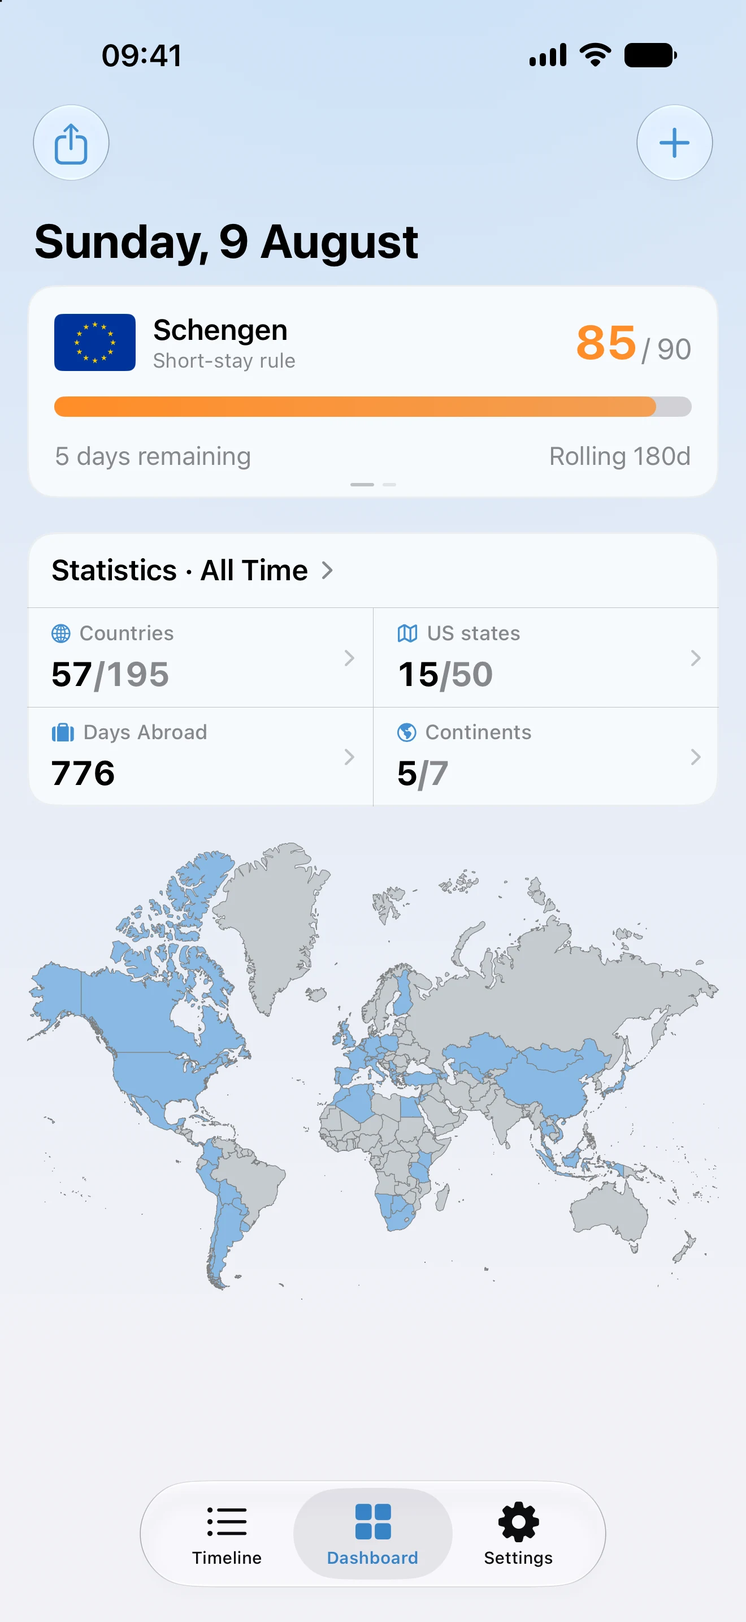
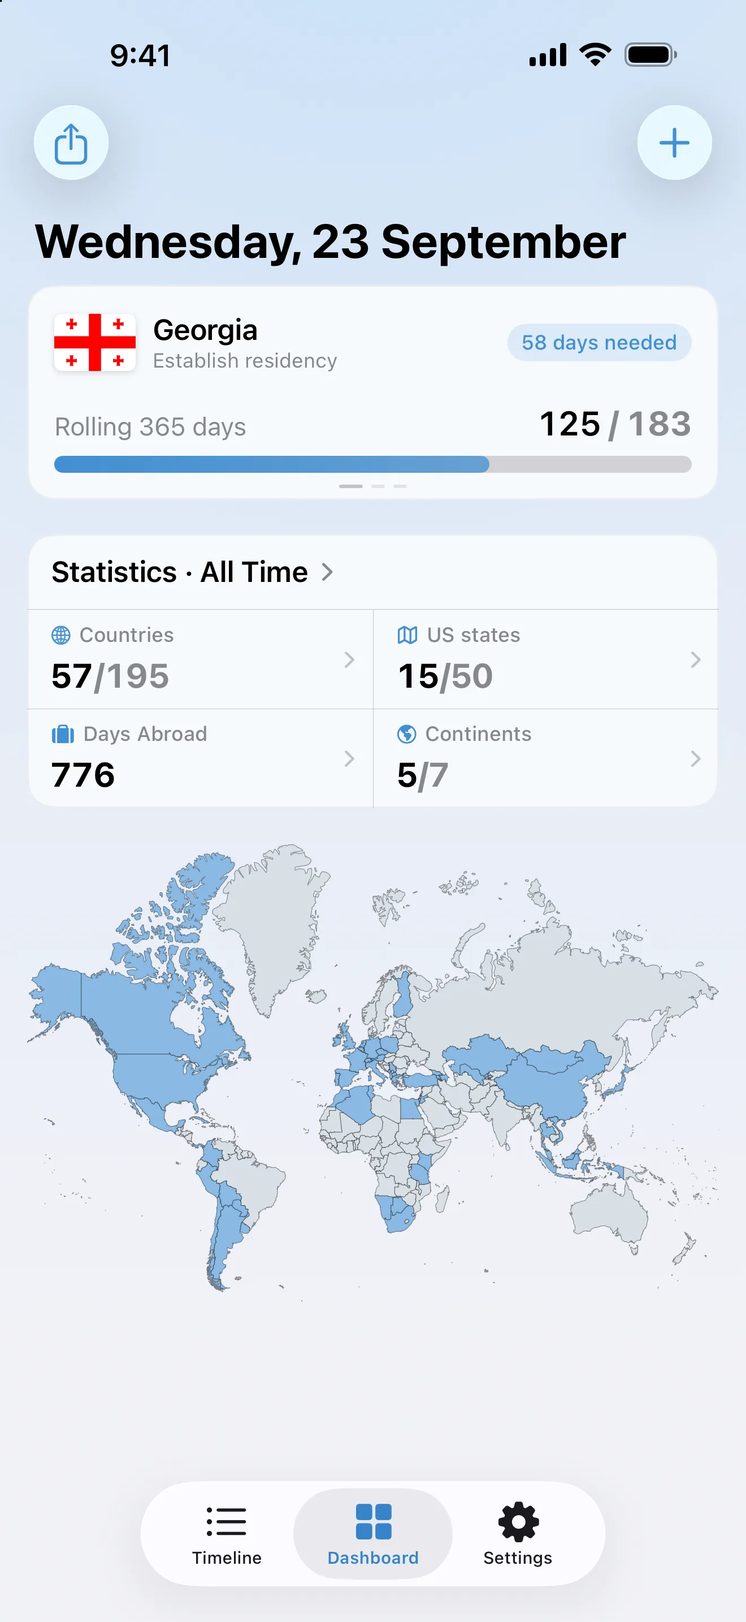
Replace placeholder screenshots with fresh simulator captures
Hero list, alerts list, tracker cards, citizenship card, Photo Import review,
forecast and presets, plus the hero dashboard and tracker detail, all captured
2026-09-27 from the website-dashboard-alerts harness build with
--screenshot-date 2026-09-23. Manual-source captures are archived under
_manual-sources and registered in screenshots.json with their crops.

diff --git a/index.html b/index.html
@@ -213,15 +213,15 @@
       <div class="hx-phones is-pre" data-hx-phones>
         <div class="hx-device hx-phone-back">
           <div class="hx-screen">
-            <img class="shot-dark" src="assets/home/home-hero-tracker-detail.webp?v=20260925a" alt="The Schengen tracker in AtlasDays: 85 of 90 days used, 5 remaining, with the trips behind the count" width="1320" height="2868" />
-            <img class="shot-light" src="assets/home/home-hero-tracker-detail-light.webp?v=20260925a" alt="The Schengen tracker in AtlasDays: 85 of 90 days used, 5 remaining, with the trips behind the count" width="1320" height="2868" />
+            <img class="shot-dark" src="assets/home/home-hero-tracker-detail.webp?v=20260927c" alt="The Schengen tracker in AtlasDays: 85 of 90 days used, 5 remaining, with the trips behind the count" width="1320" height="2868" />
+            <img class="shot-light" src="assets/home/home-hero-tracker-detail-light.webp?v=20260927c" alt="The Schengen tracker in AtlasDays: 85 of 90 days used, 5 remaining, with the trips behind the count" width="1320" height="2868" />
           </div>
           <img class="hx-frame" src="assets/home/iphone-frame-blue.webp?v=20260809j" alt="" width="980" height="2000" />
         </div>
         <div class="hx-device hx-phone-front">
           <div class="hx-screen">
-            <img class="shot-dark" src="assets/home/v2/hero-list.webp?v=20260925a" alt="The AtlasDays dashboard on Wednesday, 23 September: a Georgia residency tracker, the Schengen tracker at 85 of 90 days, a United Kingdom travel goal, and all-time statistics" width="1320" height="2868" fetchpriority="high" />
-            <img class="shot-light" src="assets/home/v2/hero-list-light.webp?v=20260925a" alt="The AtlasDays dashboard on Wednesday, 23 September: a Georgia residency tracker, the Schengen tracker at 85 of 90 days, a United Kingdom travel goal, and all-time statistics" width="1320" height="2868" />
+            <img class="shot-dark" src="assets/home/v2/hero-list.webp?v=20260927c" alt="The AtlasDays dashboard on Wednesday, 23 September: a Georgia residency tracker, the Schengen tracker at 85 of 90 days, a United Kingdom travel goal, and all-time statistics" width="1320" height="2868" fetchpriority="high" />
+            <img class="shot-light" src="assets/home/v2/hero-list-light.webp?v=20260927c" alt="The AtlasDays dashboard on Wednesday, 23 September: a Georgia residency tracker, the Schengen tracker at 85 of 90 days, a United Kingdom travel goal, and all-time statistics" width="1320" height="2868" />
           </div>
           <img class="hx-frame" src="assets/home/iphone-frame-blue.webp?v=20260809j" alt="" width="980" height="2000" />
         </div>
@@ -236,32 +236,32 @@
             <span class="hx-case-label">Visa limits</span>
             <span class="hx-case-text">Schengen 90/180, per-stay limits, and rolling windows.</span>
             <span class="hx-case-shot">
-              <img class="shot-dark" src="assets/home/v2/case-visa.webp?v=20260925a" alt="An AtlasDays Schengen tracker card: days used and days remaining in the rolling 180-day window" width="1224" height="380" loading="lazy" />
-              <img class="shot-light" src="assets/home/v2/case-visa-light.webp?v=20260925a" alt="An AtlasDays Schengen tracker card: days used and days remaining in the rolling 180-day window" width="1224" height="380" loading="lazy" />
+              <img class="shot-dark" src="assets/home/v2/case-visa.webp?v=20260927c" alt="An AtlasDays Schengen tracker card: days used and days remaining in the rolling 180-day window" width="1224" height="380" loading="lazy" />
+              <img class="shot-light" src="assets/home/v2/case-visa-light.webp?v=20260927c" alt="An AtlasDays Schengen tracker card: days used and days remaining in the rolling 180-day window" width="1224" height="380" loading="lazy" />
             </span>
           </a>
           <a class="hx-case" href="/residency-thresholds">
             <span class="hx-case-label">Tax residency</span>
             <span class="hx-case-text">183-day tests, calendar years, and fiscal years.</span>
             <span class="hx-case-shot">
-              <img class="shot-dark" src="assets/home/v2/case-residency.webp?v=20260925a" alt="An AtlasDays residency tracker card counting days toward a 183-day threshold" width="1224" height="380" loading="lazy" />
-              <img class="shot-light" src="assets/home/v2/case-residency-light.webp?v=20260925a" alt="An AtlasDays residency tracker card counting days toward a 183-day threshold" width="1224" height="380" loading="lazy" />
+              <img class="shot-dark" src="assets/home/v2/case-residency.webp?v=20260927c" alt="An AtlasDays residency tracker card counting days toward a 183-day threshold" width="1224" height="380" loading="lazy" />
+              <img class="shot-light" src="assets/home/v2/case-residency-light.webp?v=20260927c" alt="An AtlasDays residency tracker card counting days toward a 183-day threshold" width="1224" height="380" loading="lazy" />
             </span>
           </a>
           <div class="hx-case" data-hx-pending-page="/citizenship">
             <span class="hx-case-label">Citizenship</span>
             <span class="hx-case-text">Presence and absence limits for citizenship and permanent residence.</span>
             <span class="hx-case-shot">
-              <img class="shot-dark" src="assets/home/v2/case-citizenship.webp?v=20260925a" alt="An AtlasDays citizenship tracker card counting days against a naturalisation limit" width="1224" height="557" loading="lazy" />
-              <img class="shot-light" src="assets/home/v2/case-citizenship-light.webp?v=20260925a" alt="An AtlasDays citizenship tracker card counting days against a naturalisation limit" width="1224" height="557" loading="lazy" />
+              <img class="shot-dark" src="assets/home/v2/case-citizenship.webp?v=20260927c" alt="An AtlasDays citizenship tracker card counting days against a naturalisation limit" width="1224" height="557" loading="lazy" />
+              <img class="shot-light" src="assets/home/v2/case-citizenship-light.webp?v=20260927c" alt="An AtlasDays citizenship tracker card counting days against a naturalisation limit" width="1224" height="557" loading="lazy" />
             </span>
           </div>
           <a class="hx-case" href="/travel-history">
             <span class="hx-case-label">Travel history</span>
             <span class="hx-case-text">Exact dates where they matter, year-only for older trips.</span>
             <span class="hx-case-shot">
-              <img class="shot-dark" src="assets/home/v2/case-history.webp?v=20260925a" alt="AtlasDays all-time statistics: countries visited, US states, days abroad, and continents" width="1224" height="485" loading="lazy" />
-              <img class="shot-light" src="assets/home/v2/case-history-light.webp?v=20260925a" alt="AtlasDays all-time statistics: countries visited, US states, days abroad, and continents" width="1224" height="485" loading="lazy" />
+              <img class="shot-dark" src="assets/home/v2/case-history.webp?v=20260927c" alt="AtlasDays all-time statistics: countries visited, US states, days abroad, and continents" width="1224" height="485" loading="lazy" />
+              <img class="shot-light" src="assets/home/v2/case-history-light.webp?v=20260927c" alt="AtlasDays all-time statistics: countries visited, US states, days abroad, and continents" width="1224" height="485" loading="lazy" />
             </span>
           </a>
         </div>
@@ -276,12 +276,12 @@
           <div class="hx-story-stage">
             <div class="hx-device hx-story-device">
               <div class="hx-screen">
-                <img class="shot-dark is-shown" data-hx-step-shot="0" src="assets/home/v2/step-photo-import.webp?v=20260925a" alt="Photo Import review: trips found in the photo library, ready to check before saving" width="1320" height="2868" loading="lazy" />
-                <img class="shot-light is-shown" data-hx-step-shot="0" src="assets/home/v2/step-photo-import-light.webp?v=20260925a" alt="Photo Import review: trips found in the photo library, ready to check before saving" width="1320" height="2868" loading="lazy" />
+                <img class="shot-dark is-shown" data-hx-step-shot="0" src="assets/home/v2/step-photo-import.webp?v=20260927c" alt="Photo Import review: trips found in the photo library, ready to check before saving" width="1320" height="2868" loading="lazy" />
+                <img class="shot-light is-shown" data-hx-step-shot="0" src="assets/home/v2/step-photo-import-light.webp?v=20260927c" alt="Photo Import review: trips found in the photo library, ready to check before saving" width="1320" height="2868" loading="lazy" />
                 <img class="shot-dark" data-hx-step-shot="1" src="assets/home/home-proof-presets.webp?v=20260818a" alt="The Add a Tracker screen with ready-made visa, residence, and US state rules" width="1320" height="2868" loading="lazy" />
                 <img class="shot-light" data-hx-step-shot="1" src="assets/home/home-proof-presets-light.webp?v=20260818a" alt="The Add a Tracker screen with ready-made visa, residence, and US state rules" width="1320" height="2868" loading="lazy" />
-                <img class="shot-dark" data-hx-step-shot="2" src="assets/home/v2/step-alerts-list.webp?v=20260925b" alt="The AtlasDays dashboard with the Schengen and Japan visitor trackers both red at 90 of 90 days, marked At limit" width="1320" height="2868" loading="lazy" />
-                <img class="shot-light" data-hx-step-shot="2" src="assets/home/v2/step-alerts-list-light.webp?v=20260925b" alt="The AtlasDays dashboard with the Schengen and Japan visitor trackers both red at 90 of 90 days, marked At limit" width="1320" height="2868" loading="lazy" />
+                <img class="shot-dark" data-hx-step-shot="2" src="assets/home/v2/step-alerts-list.webp?v=20260927c" alt="The AtlasDays dashboard with the Schengen and Japan visitor trackers both red at 90 of 90 days, marked At limit" width="1320" height="2868" loading="lazy" />
+                <img class="shot-light" data-hx-step-shot="2" src="assets/home/v2/step-alerts-list-light.webp?v=20260927c" alt="The AtlasDays dashboard with the Schengen and Japan visitor trackers both red at 90 of 90 days, marked At limit" width="1320" height="2868" loading="lazy" />
               </div>
               <img class="hx-frame" src="assets/home/iphone-frame-blue.webp?v=20260809j" alt="" width="980" height="2000" loading="lazy" />
             </div>

diff --git a/_site-src/content/pages/home.html b/_site-src/content/pages/home.html
@@ -16,15 +16,15 @@
       <div class="hx-phones is-pre" data-hx-phones>
         <div class="hx-device hx-phone-back">
           <div class="hx-screen">
-            <img class="shot-dark" src="assets/home/home-hero-tracker-detail.webp?v=20260925a" alt="The Schengen tracker in AtlasDays: 85 of 90 days used, 5 remaining, with the trips behind the count" width="1320" height="2868" />
-            <img class="shot-light" src="assets/home/home-hero-tracker-detail-light.webp?v=20260925a" alt="The Schengen tracker in AtlasDays: 85 of 90 days used, 5 remaining, with the trips behind the count" width="1320" height="2868" />
+            <img class="shot-dark" src="assets/home/home-hero-tracker-detail.webp?v=20260927c" alt="The Schengen tracker in AtlasDays: 85 of 90 days used, 5 remaining, with the trips behind the count" width="1320" height="2868" />
+            <img class="shot-light" src="assets/home/home-hero-tracker-detail-light.webp?v=20260927c" alt="The Schengen tracker in AtlasDays: 85 of 90 days used, 5 remaining, with the trips behind the count" width="1320" height="2868" />
           </div>
           <img class="hx-frame" src="assets/home/iphone-frame-blue.webp?v=20260809j" alt="" width="980" height="2000" />
         </div>
         <div class="hx-device hx-phone-front">
           <div class="hx-screen">
-            <img class="shot-dark" src="assets/home/v2/hero-list.webp?v=20260925a" alt="The AtlasDays dashboard on Wednesday, 23 September: a Georgia residency tracker, the Schengen tracker at 85 of 90 days, a United Kingdom travel goal, and all-time statistics" width="1320" height="2868" fetchpriority="high" />
-            <img class="shot-light" src="assets/home/v2/hero-list-light.webp?v=20260925a" alt="The AtlasDays dashboard on Wednesday, 23 September: a Georgia residency tracker, the Schengen tracker at 85 of 90 days, a United Kingdom travel goal, and all-time statistics" width="1320" height="2868" />
+            <img class="shot-dark" src="assets/home/v2/hero-list.webp?v=20260927c" alt="The AtlasDays dashboard on Wednesday, 23 September: a Georgia residency tracker, the Schengen tracker at 85 of 90 days, a United Kingdom travel goal, and all-time statistics" width="1320" height="2868" fetchpriority="high" />
+            <img class="shot-light" src="assets/home/v2/hero-list-light.webp?v=20260927c" alt="The AtlasDays dashboard on Wednesday, 23 September: a Georgia residency tracker, the Schengen tracker at 85 of 90 days, a United Kingdom travel goal, and all-time statistics" width="1320" height="2868" />
           </div>
           <img class="hx-frame" src="assets/home/iphone-frame-blue.webp?v=20260809j" alt="" width="980" height="2000" />
         </div>
@@ -39,32 +39,32 @@
             <span class="hx-case-label">Visa limits</span>
             <span class="hx-case-text">Schengen 90/180, per-stay limits, and rolling windows.</span>
             <span class="hx-case-shot">
-              <img class="shot-dark" src="assets/home/v2/case-visa.webp?v=20260925a" alt="An AtlasDays Schengen tracker card: days used and days remaining in the rolling 180-day window" width="1224" height="380" loading="lazy" />
-              <img class="shot-light" src="assets/home/v2/case-visa-light.webp?v=20260925a" alt="An AtlasDays Schengen tracker card: days used and days remaining in the rolling 180-day window" width="1224" height="380" loading="lazy" />
+              <img class="shot-dark" src="assets/home/v2/case-visa.webp?v=20260927c" alt="An AtlasDays Schengen tracker card: days used and days remaining in the rolling 180-day window" width="1224" height="380" loading="lazy" />
+              <img class="shot-light" src="assets/home/v2/case-visa-light.webp?v=20260927c" alt="An AtlasDays Schengen tracker card: days used and days remaining in the rolling 180-day window" width="1224" height="380" loading="lazy" />
             </span>
           </a>
           <a class="hx-case" href="/residency-thresholds">
             <span class="hx-case-label">Tax residency</span>
             <span class="hx-case-text">183-day tests, calendar years, and fiscal years.</span>
             <span class="hx-case-shot">
-              <img class="shot-dark" src="assets/home/v2/case-residency.webp?v=20260925a" alt="An AtlasDays residency tracker card counting days toward a 183-day threshold" width="1224" height="380" loading="lazy" />
-              <img class="shot-light" src="assets/home/v2/case-residency-light.webp?v=20260925a" alt="An AtlasDays residency tracker card counting days toward a 183-day threshold" width="1224" height="380" loading="lazy" />
+              <img class="shot-dark" src="assets/home/v2/case-residency.webp?v=20260927c" alt="An AtlasDays residency tracker card counting days toward a 183-day threshold" width="1224" height="380" loading="lazy" />
+              <img class="shot-light" src="assets/home/v2/case-residency-light.webp?v=20260927c" alt="An AtlasDays residency tracker card counting days toward a 183-day threshold" width="1224" height="380" loading="lazy" />
             </span>
           </a>
           <div class="hx-case" data-hx-pending-page="/citizenship">
             <span class="hx-case-label">Citizenship</span>
             <span class="hx-case-text">Presence and absence limits for citizenship and permanent residence.</span>
             <span class="hx-case-shot">
-              <img class="shot-dark" src="assets/home/v2/case-citizenship.webp?v=20260925a" alt="An AtlasDays citizenship tracker card counting days against a naturalisation limit" width="1224" height="557" loading="lazy" />
-              <img class="shot-light" src="assets/home/v2/case-citizenship-light.webp?v=20260925a" alt="An AtlasDays citizenship tracker card counting days against a naturalisation limit" width="1224" height="557" loading="lazy" />
+              <img class="shot-dark" src="assets/home/v2/case-citizenship.webp?v=20260927c" alt="An AtlasDays citizenship tracker card counting days against a naturalisation limit" width="1224" height="557" loading="lazy" />
+              <img class="shot-light" src="assets/home/v2/case-citizenship-light.webp?v=20260927c" alt="An AtlasDays citizenship tracker card counting days against a naturalisation limit" width="1224" height="557" loading="lazy" />
             </span>
           </div>
           <a class="hx-case" href="/travel-history">
             <span class="hx-case-label">Travel history</span>
             <span class="hx-case-text">Exact dates where they matter, year-only for older trips.</span>
             <span class="hx-case-shot">
-              <img class="shot-dark" src="assets/home/v2/case-history.webp?v=20260925a" alt="AtlasDays all-time statistics: countries visited, US states, days abroad, and continents" width="1224" height="485" loading="lazy" />
-              <img class="shot-light" src="assets/home/v2/case-history-light.webp?v=20260925a" alt="AtlasDays all-time statistics: countries visited, US states, days abroad, and continents" width="1224" height="485" loading="lazy" />
+              <img class="shot-dark" src="assets/home/v2/case-history.webp?v=20260927c" alt="AtlasDays all-time statistics: countries visited, US states, days abroad, and continents" width="1224" height="485" loading="lazy" />
+              <img class="shot-light" src="assets/home/v2/case-history-light.webp?v=20260927c" alt="AtlasDays all-time statistics: countries visited, US states, days abroad, and continents" width="1224" height="485" loading="lazy" />
             </span>
           </a>
         </div>
@@ -79,12 +79,12 @@
           <div class="hx-story-stage">
             <div class="hx-device hx-story-device">
               <div class="hx-screen">
-                <img class="shot-dark is-shown" data-hx-step-shot="0" src="assets/home/v2/step-photo-import.webp?v=20260925a" alt="Photo Import review: trips found in the photo library, ready to check before saving" width="1320" height="2868" loading="lazy" />
-                <img class="shot-light is-shown" data-hx-step-shot="0" src="assets/home/v2/step-photo-import-light.webp?v=20260925a" alt="Photo Import review: trips found in the photo library, ready to check before saving" width="1320" height="2868" loading="lazy" />
+                <img class="shot-dark is-shown" data-hx-step-shot="0" src="assets/home/v2/step-photo-import.webp?v=20260927c" alt="Photo Import review: trips found in the photo library, ready to check before saving" width="1320" height="2868" loading="lazy" />
+                <img class="shot-light is-shown" data-hx-step-shot="0" src="assets/home/v2/step-photo-import-light.webp?v=20260927c" alt="Photo Import review: trips found in the photo library, ready to check before saving" width="1320" height="2868" loading="lazy" />
                 <img class="shot-dark" data-hx-step-shot="1" src="assets/home/home-proof-presets.webp?v=20260818a" alt="The Add a Tracker screen with ready-made visa, residence, and US state rules" width="1320" height="2868" loading="lazy" />
                 <img class="shot-light" data-hx-step-shot="1" src="assets/home/home-proof-presets-light.webp?v=20260818a" alt="The Add a Tracker screen with ready-made visa, residence, and US state rules" width="1320" height="2868" loading="lazy" />
-                <img class="shot-dark" data-hx-step-shot="2" src="assets/home/v2/step-alerts-list.webp?v=20260925b" alt="The AtlasDays dashboard with the Schengen and Japan visitor trackers both red at 90 of 90 days, marked At limit" width="1320" height="2868" loading="lazy" />
-                <img class="shot-light" data-hx-step-shot="2" src="assets/home/v2/step-alerts-list-light.webp?v=20260925b" alt="The AtlasDays dashboard with the Schengen and Japan visitor trackers both red at 90 of 90 days, marked At limit" width="1320" height="2868" loading="lazy" />
+                <img class="shot-dark" data-hx-step-shot="2" src="assets/home/v2/step-alerts-list.webp?v=20260927c" alt="The AtlasDays dashboard with the Schengen and Japan visitor trackers both red at 90 of 90 days, marked At limit" width="1320" height="2868" loading="lazy" />
+                <img class="shot-light" data-hx-step-shot="2" src="assets/home/v2/step-alerts-list-light.webp?v=20260927c" alt="The AtlasDays dashboard with the Schengen and Japan visitor trackers both red at 90 of 90 days, marked At limit" width="1320" height="2868" loading="lazy" />
               </div>
               <img class="hx-frame" src="assets/home/iphone-frame-blue.webp?v=20260809j" alt="" width="980" height="2000" loading="lazy" />
             </div>

diff --git a/visa-limits.html b/visa-limits.html
@@ -126,15 +126,15 @@
     <div class="hx-phones is-pre" data-hx-phones>
       <div class="hx-device hx-phone-back">
         <div class="hx-screen">
-          <img class="shot-dark" src="/assets/home/v2/hero-list.webp?v=20260927a" alt="The AtlasDays dashboard with the Schengen tracker at 85 of 90 days next to a residency tracker and a travel goal" width="1320" height="2868" />
-          <img class="shot-light" src="/assets/home/v2/hero-list-light.webp?v=20260927a" alt="The AtlasDays dashboard with the Schengen tracker at 85 of 90 days next to a residency tracker and a travel goal" width="1320" height="2868" />
+          <img class="shot-dark" src="/assets/home/v2/hero-list.webp?v=20260927c" alt="The AtlasDays dashboard with the Schengen tracker at 85 of 90 days next to a residency tracker and a travel goal" width="1320" height="2868" />
+          <img class="shot-light" src="/assets/home/v2/hero-list-light.webp?v=20260927c" alt="The AtlasDays dashboard with the Schengen tracker at 85 of 90 days next to a residency tracker and a travel goal" width="1320" height="2868" />
         </div>
         <img class="hx-frame" src="/assets/home/iphone-frame-blue.webp?v=20260809j" alt="" width="980" height="2000" />
       </div>
       <div class="hx-device hx-phone-front">
         <div class="hx-screen">
-          <img class="shot-dark" src="/assets/home/v2/uc-forecast.webp?v=20260927a" alt="The AtlasDays Schengen tracker at 85 of 90 days with planned trips to Germany, Italy, France, and Spain, and the note: Based on your travel plans, you'll stay within the limit" width="1320" height="2868" fetchpriority="high" />
-          <img class="shot-light" src="/assets/home/v2/uc-forecast-light.webp?v=20260927a" alt="The AtlasDays Schengen tracker at 85 of 90 days with planned trips to Germany, Italy, France, and Spain, and the note: Based on your travel plans, you'll stay within the limit" width="1320" height="2868" />
+          <img class="shot-dark" src="/assets/home/v2/uc-forecast.webp?v=20260927c" alt="The AtlasDays Schengen tracker at 85 of 90 days with planned trips to Germany, Italy, France, and Spain, and the note: Based on your travel plans, you'll stay within the limit" width="1320" height="2868" fetchpriority="high" />
+          <img class="shot-light" src="/assets/home/v2/uc-forecast-light.webp?v=20260927c" alt="The AtlasDays Schengen tracker at 85 of 90 days with planned trips to Germany, Italy, France, and Spain, and the note: Based on your travel plans, you'll stay within the limit" width="1320" height="2868" />
         </div>
         <img class="hx-frame" src="/assets/home/iphone-frame-blue.webp?v=20260809j" alt="" width="980" height="2000" />
       </div>
@@ -221,8 +221,8 @@
         </div>
         <div class="hx-device hx-feature-device">
           <div class="hx-screen">
-            <img class="shot-dark" src="/assets/home/v2/uc-presets.webp?v=20260927a" alt="The AtlasDays Add a Tracker screen with filters for visas, tax, residence, and citizenship above ready-made visa and entry limit rules" width="1320" height="2868" loading="lazy" />
-            <img class="shot-light" src="/assets/home/v2/uc-presets-light.webp?v=20260927a" alt="The AtlasDays Add a Tracker screen with filters for visas, tax, residence, and citizenship above ready-made visa and entry limit rules" width="1320" height="2868" loading="lazy" />
+            <img class="shot-dark" src="/assets/home/v2/uc-presets.webp?v=20260927c" alt="The AtlasDays Add a Tracker screen with filters for visas, tax, residence, and citizenship above ready-made visa and entry limit rules" width="1320" height="2868" loading="lazy" />
+            <img class="shot-light" src="/assets/home/v2/uc-presets-light.webp?v=20260927c" alt="The AtlasDays Add a Tracker screen with filters for visas, tax, residence, and citizenship above ready-made visa and entry limit rules" width="1320" height="2868" loading="lazy" />
           </div>
           <img class="hx-frame" src="/assets/home/iphone-frame-blue.webp?v=20260809j" alt="" width="980" height="2000" loading="lazy" />
         </div>
@@ -236,8 +236,8 @@
         </div>
         <div class="hx-device hx-feature-device">
           <div class="hx-screen">
-            <img class="shot-dark" src="/assets/home/v2/step-photo-import.webp?v=20260927a" alt="Photo Import review: trips found in the photo library, ready to check before saving" width="1320" height="2868" loading="lazy" />
-            <img class="shot-light" src="/assets/home/v2/step-photo-import-light.webp?v=20260927a" alt="Photo Import review: trips found in the photo library, ready to check before saving" width="1320" height="2868" loading="lazy" />
+            <img class="shot-dark" src="/assets/home/v2/step-photo-import.webp?v=20260927c" alt="Photo Import review: trips found in the photo library, ready to check before saving" width="1320" height="2868" loading="lazy" />
+            <img class="shot-light" src="/assets/home/v2/step-photo-import-light.webp?v=20260927c" alt="Photo Import review: trips found in the photo library, ready to check before saving" width="1320" height="2868" loading="lazy" />
           </div>
           <img class="hx-frame" src="/assets/home/iphone-frame-blue.webp?v=20260809j" alt="" width="980" height="2000" loading="lazy" />
         </div>
@@ -251,8 +251,8 @@
         </div>
         <div class="hx-device hx-feature-device">
           <div class="hx-screen">
-            <img class="shot-dark" src="/assets/home/v2/step-alerts-list.webp?v=20260927a" alt="The AtlasDays dashboard with the Schengen and Japan visitor trackers both red at 90 of 90 days, marked At limit" width="1320" height="2868" loading="lazy" />
-            <img class="shot-light" src="/assets/home/v2/step-alerts-list-light.webp?v=20260927a" alt="The AtlasDays dashboard with the Schengen and Japan visitor trackers both red at 90 of 90 days, marked At limit" width="1320" height="2868" loading="lazy" />
+            <img class="shot-dark" src="/assets/home/v2/step-alerts-list.webp?v=20260927c" alt="The AtlasDays dashboard with the Schengen and Japan visitor trackers both red at 90 of 90 days, marked At limit" width="1320" height="2868" loading="lazy" />
+            <img class="shot-light" src="/assets/home/v2/step-alerts-list-light.webp?v=20260927c" alt="The AtlasDays dashboard with the Schengen and Japan visitor trackers both red at 90 of 90 days, marked At limit" width="1320" height="2868" loading="lazy" />
           </div>
           <img class="hx-frame" src="/assets/home/iphone-frame-blue.webp?v=20260809j" alt="" width="980" height="2000" loading="lazy" />
         </div>

diff --git a/_site-src/content/pages/visa-limits.html b/_site-src/content/pages/visa-limits.html
@@ -15,15 +15,15 @@
     <div class="hx-phones is-pre" data-hx-phones>
       <div class="hx-device hx-phone-back">
         <div class="hx-screen">
-          <img class="shot-dark" src="/assets/home/v2/hero-list.webp?v=20260927a" alt="The AtlasDays dashboard with the Schengen tracker at 85 of 90 days next to a residency tracker and a travel goal" width="1320" height="2868" />
-          <img class="shot-light" src="/assets/home/v2/hero-list-light.webp?v=20260927a" alt="The AtlasDays dashboard with the Schengen tracker at 85 of 90 days next to a residency tracker and a travel goal" width="1320" height="2868" />
+          <img class="shot-dark" src="/assets/home/v2/hero-list.webp?v=20260927c" alt="The AtlasDays dashboard with the Schengen tracker at 85 of 90 days next to a residency tracker and a travel goal" width="1320" height="2868" />
+          <img class="shot-light" src="/assets/home/v2/hero-list-light.webp?v=20260927c" alt="The AtlasDays dashboard with the Schengen tracker at 85 of 90 days next to a residency tracker and a travel goal" width="1320" height="2868" />
         </div>
         <img class="hx-frame" src="/assets/home/iphone-frame-blue.webp?v=20260809j" alt="" width="980" height="2000" />
       </div>
       <div class="hx-device hx-phone-front">
         <div class="hx-screen">
-          <img class="shot-dark" src="/assets/home/v2/uc-forecast.webp?v=20260927a" alt="The AtlasDays Schengen tracker at 85 of 90 days with planned trips to Germany, Italy, France, and Spain, and the note: Based on your travel plans, you'll stay within the limit" width="1320" height="2868" fetchpriority="high" />
-          <img class="shot-light" src="/assets/home/v2/uc-forecast-light.webp?v=20260927a" alt="The AtlasDays Schengen tracker at 85 of 90 days with planned trips to Germany, Italy, France, and Spain, and the note: Based on your travel plans, you'll stay within the limit" width="1320" height="2868" />
+          <img class="shot-dark" src="/assets/home/v2/uc-forecast.webp?v=20260927c" alt="The AtlasDays Schengen tracker at 85 of 90 days with planned trips to Germany, Italy, France, and Spain, and the note: Based on your travel plans, you'll stay within the limit" width="1320" height="2868" fetchpriority="high" />
+          <img class="shot-light" src="/assets/home/v2/uc-forecast-light.webp?v=20260927c" alt="The AtlasDays Schengen tracker at 85 of 90 days with planned trips to Germany, Italy, France, and Spain, and the note: Based on your travel plans, you'll stay within the limit" width="1320" height="2868" />
         </div>
         <img class="hx-frame" src="/assets/home/iphone-frame-blue.webp?v=20260809j" alt="" width="980" height="2000" />
       </div>
@@ -110,8 +110,8 @@
         </div>
         <div class="hx-device hx-feature-device">
           <div class="hx-screen">
-            <img class="shot-dark" src="/assets/home/v2/uc-presets.webp?v=20260927a" alt="The AtlasDays Add a Tracker screen with filters for visas, tax, residence, and citizenship above ready-made visa and entry limit rules" width="1320" height="2868" loading="lazy" />
-            <img class="shot-light" src="/assets/home/v2/uc-presets-light.webp?v=20260927a" alt="The AtlasDays Add a Tracker screen with filters for visas, tax, residence, and citizenship above ready-made visa and entry limit rules" width="1320" height="2868" loading="lazy" />
+            <img class="shot-dark" src="/assets/home/v2/uc-presets.webp?v=20260927c" alt="The AtlasDays Add a Tracker screen with filters for visas, tax, residence, and citizenship above ready-made visa and entry limit rules" width="1320" height="2868" loading="lazy" />
+            <img class="shot-light" src="/assets/home/v2/uc-presets-light.webp?v=20260927c" alt="The AtlasDays Add a Tracker screen with filters for visas, tax, residence, and citizenship above ready-made visa and entry limit rules" width="1320" height="2868" loading="lazy" />
           </div>
           <img class="hx-frame" src="/assets/home/iphone-frame-blue.webp?v=20260809j" alt="" width="980" height="2000" loading="lazy" />
         </div>
@@ -125,8 +125,8 @@
         </div>
         <div class="hx-device hx-feature-device">
           <div class="hx-screen">
-            <img class="shot-dark" src="/assets/home/v2/step-photo-import.webp?v=20260927a" alt="Photo Import review: trips found in the photo library, ready to check before saving" width="1320" height="2868" loading="lazy" />
-            <img class="shot-light" src="/assets/home/v2/step-photo-import-light.webp?v=20260927a" alt="Photo Import review: trips found in the photo library, ready to check before saving" width="1320" height="2868" loading="lazy" />
+            <img class="shot-dark" src="/assets/home/v2/step-photo-import.webp?v=20260927c" alt="Photo Import review: trips found in the photo library, ready to check before saving" width="1320" height="2868" loading="lazy" />
+            <img class="shot-light" src="/assets/home/v2/step-photo-import-light.webp?v=20260927c" alt="Photo Import review: trips found in the photo library, ready to check before saving" width="1320" height="2868" loading="lazy" />
           </div>
           <img class="hx-frame" src="/assets/home/iphone-frame-blue.webp?v=20260809j" alt="" width="980" height="2000" loading="lazy" />
         </div>
@@ -140,8 +140,8 @@
         </div>
         <div class="hx-device hx-feature-device">
           <div class="hx-screen">
-            <img class="shot-dark" src="/assets/home/v2/step-alerts-list.webp?v=20260927a" alt="The AtlasDays dashboard with the Schengen and Japan visitor trackers both red at 90 of 90 days, marked At limit" width="1320" height="2868" loading="lazy" />
-            <img class="shot-light" src="/assets/home/v2/step-alerts-list-light.webp?v=20260927a" alt="The AtlasDays dashboard with the Schengen and Japan visitor trackers both red at 90 of 90 days, marked At limit" width="1320" height="2868" loading="lazy" />
+            <img class="shot-dark" src="/assets/home/v2/step-alerts-list.webp?v=20260927c" alt="The AtlasDays dashboard with the Schengen and Japan visitor trackers both red at 90 of 90 days, marked At limit" width="1320" height="2868" loading="lazy" />
+            <img class="shot-light" src="/assets/home/v2/step-alerts-list-light.webp?v=20260927c" alt="The AtlasDays dashboard with the Schengen and Japan visitor trackers both red at 90 of 90 days, marked At limit" width="1320" height="2868" loading="lazy" />
           </div>
           <img class="hx-frame" src="/assets/home/iphone-frame-blue.webp?v=20260809j" alt="" width="980" height="2000" loading="lazy" />
         </div>
